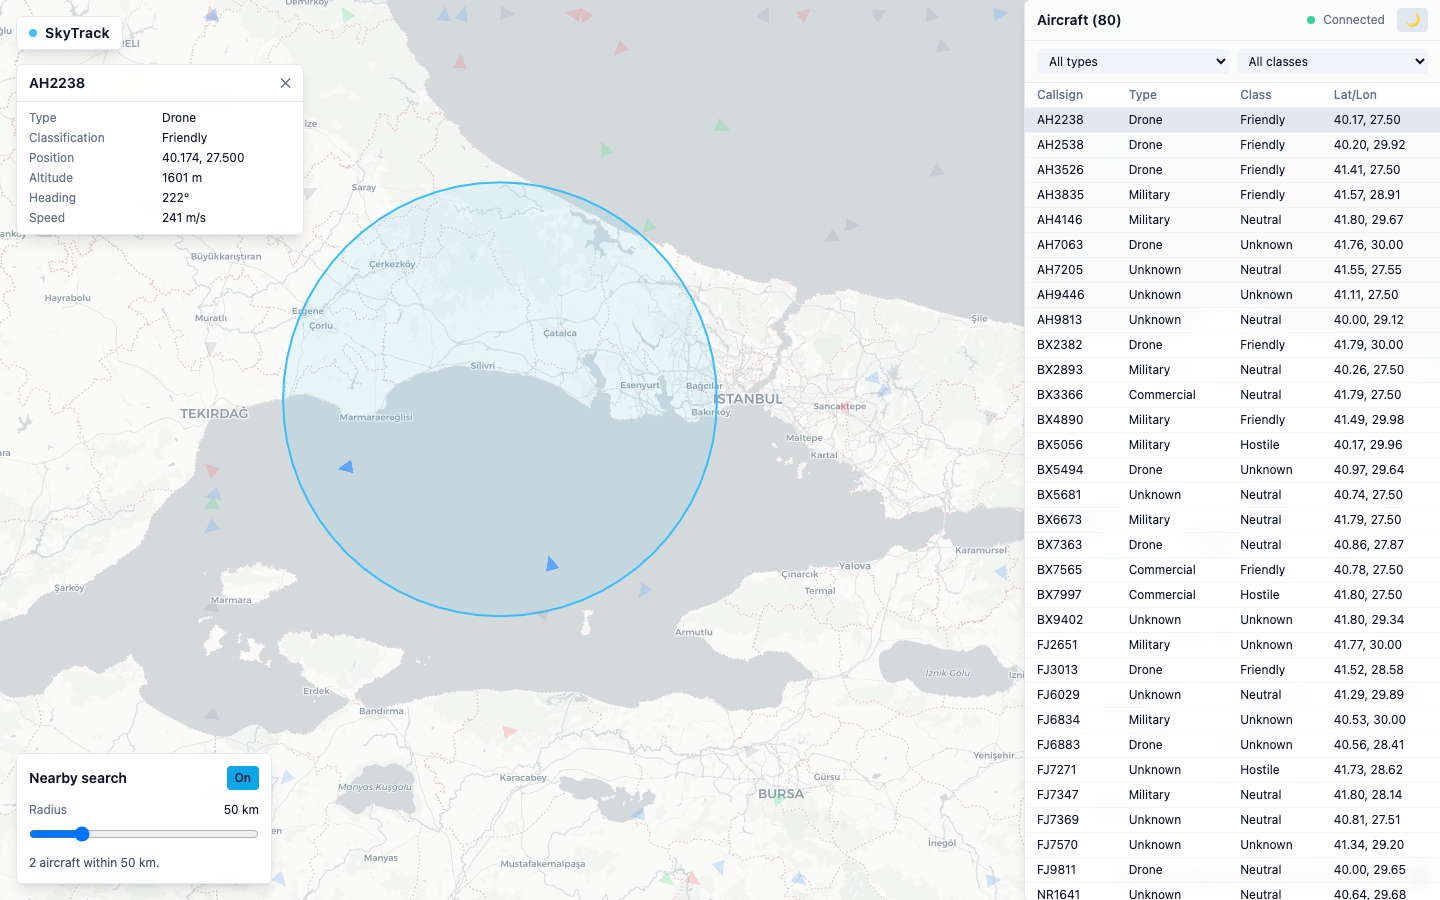
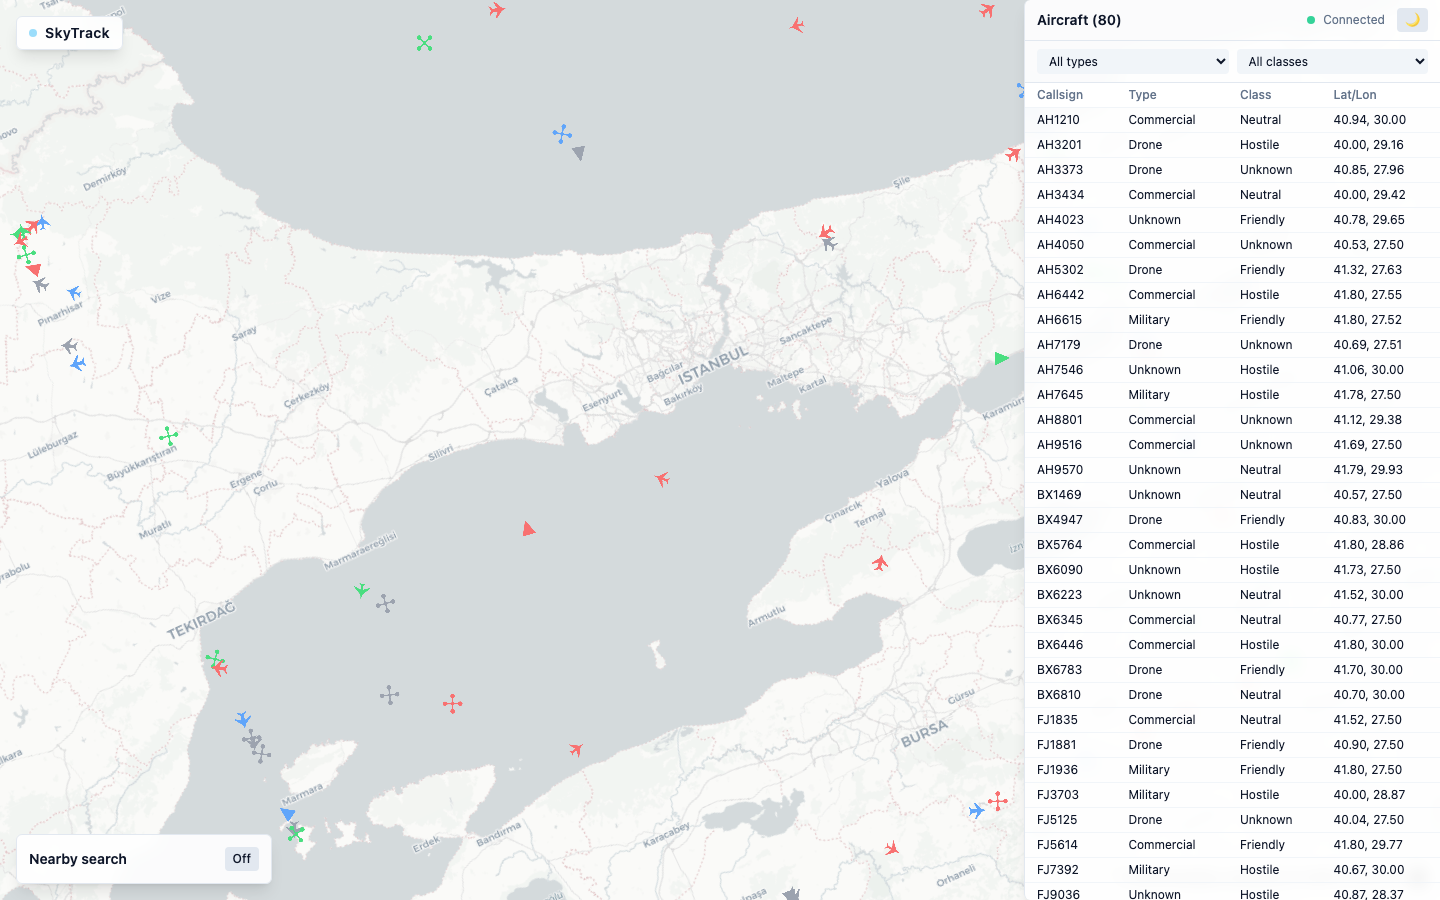
docs: refresh README screenshot with a more natural aircraft spread
Rotate the map view for the screenshot so the simulator's rectangular
spawn bounding box no longer reads as a visible "caged" edge, and
drop down to a single hero screenshot instead of three.

diff --git a/README.md b/README.md
@@ -9,15 +9,7 @@ command-center look.
 Portfolio project. KISS on purpose: no auth, no microservices, no
 Celery, no Kubernetes.
 
-![Dark mode — nearby search + detail card](docs/screenshots/dark-nearby.png)
-
-<details>
-<summary>More screenshots (light mode, detail card)</summary>
-
-![Dark mode](docs/screenshots/dark.png)
-![Light mode](docs/screenshots/light.png)
-
-</details>
+![SkyTrack — live aircraft over the Marmara region](docs/screenshots/dark.png)
 
 ## Architecture
 